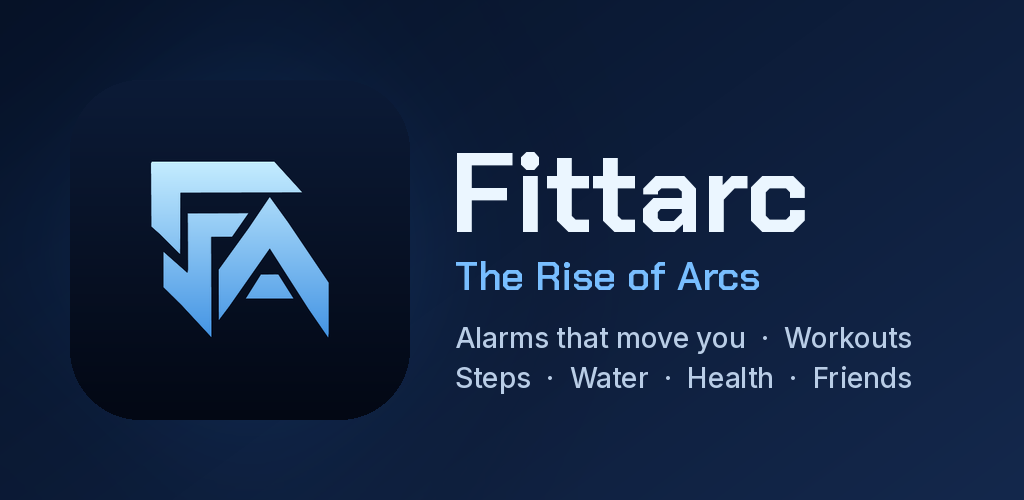
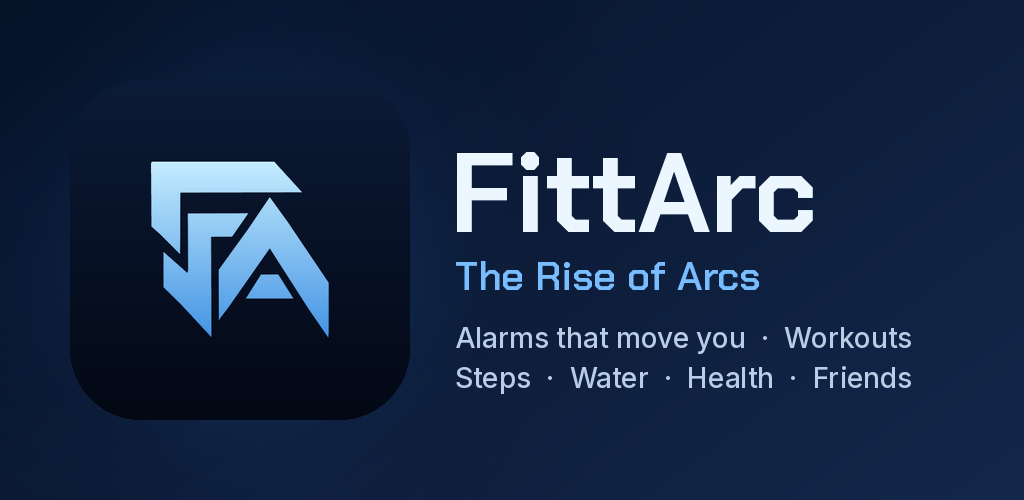
Name is written FittArc everywhere
Claude-Session: https://claude.ai/code/session_01TvF5P651VgJYdNxTh8xrqw

Changed region(s): [[0.625, 0.3, 0.8125, 0.48]]

diff --git a/lib/features/profile/privacy_policy.dart b/lib/features/profile/privacy_policy.dart
@@ -5,7 +5,7 @@ const privacyUpdated = 'October 2026';
 const privacySections = <(String, String)>[
   (
     'Summary',
-    'Fittarc keeps your fitness data on your phone and backs your progress up to your account, so you never lose '
+    'FittArc keeps your fitness data on your phone and backs your progress up to your account, so you never lose '
         'your levels and badges. Three things leave your device: what\'s needed to sign you in, that progress '
         'backup, and, if you use Friends, a small public profile and your challenges. We don\'t sell data, show ads '
         'or use third-party analytics.',
@@ -45,14 +45,14 @@ const privacySections = <(String, String)>[
   (
     'Health readings',
     'The Health tab keeps the readings you type in, such as blood pressure or blood sugar, and sorts them by '
-        'standard medical ranges. Fittarc does not measure them and does not diagnose anything. They stay on your '
+        'standard medical ranges. FittArc does not measure them and does not diagnose anything. They stay on your '
         'phone, are never uploaded, and are removed when you delete your account or reset data. If you choose '
         '"Share a summary with my doctor", the text goes only to the app you pick.',
   ),
   (
     'Feedback emails',
     'If you write to us from the app, your email app sends the message to support@fittarc.in. We read it to '
-        'improve Fittarc and to reply to you; we don\'t share it.',
+        'improve FittArc and to reply to you; we don\'t share it.',
   ),
   (
     'Camera during workouts',
@@ -62,10 +62,10 @@ const privacySections = <(String, String)>[
   ),
   (
     'Watches and Health Connect',
-    'If you choose to connect a watch, Fittarc can read its live heart rate over Bluetooth. It only looks for '
-        'devices that share heart rate, and it does not use Bluetooth to find your location. If you allow it, Fittarc '
+    'If you choose to connect a watch, FittArc can read its live heart rate over Bluetooth. It only looks for '
+        'devices that share heart rate, and it does not use Bluetooth to find your location. If you allow it, FittArc '
         'can also read your steps, heart rate and sleep from Android Health Connect, which your watch app fills in. '
-        'Fittarc only reads, never writes, and never shares or uploads this data. It is shown on your phone, '
+        'FittArc only reads, never writes, and never shares or uploads this data. It is shown on your phone, '
         'and the Arc minutes you earn are kept on your phone only. You can switch this off at any time in Health '
         'Connect or your phone settings.',
   ),
@@ -89,10 +89,10 @@ const privacySections = <(String, String)>[
   (
     'Deleting your data',
     'Use "Delete account" in your profile (tap your picture on Today) to permanently delete your sign-in, your '
-        'progress backup, your Friends profile, friend list and challenges, and all Fittarc data on the phone. You can also email us '
+        'progress backup, your Friends profile, friend list and challenges, and all FittArc data on the phone. You can also email us '
         'to have your account deleted.',
   ),
-  ('Children', 'Fittarc is not directed at children under 13.'),
+  ('Children', 'FittArc is not directed at children under 13.'),
   (
     'Contact',
     'Questions or requests: support@fittarc.in. We\'ll update this page if anything changes and show the new '

diff --git a/lib/features/profile/terms.dart b/lib/features/profile/terms.dart
@@ -3,13 +3,13 @@ const termsUpdated = 'October 2026';
 
 const termsSections = <(String, String)>[
   (
-    'Using Fittarc',
-    'By creating an account or using Fittarc you agree to these terms and to our Privacy Policy. If you don\'t '
+    'Using FittArc',
+    'By creating an account or using FittArc you agree to these terms and to our Privacy Policy. If you don\'t '
         'agree, please don\'t use the app. You must be at least 13 years old.',
   ),
   (
     'Your health and safety',
-    'Fittarc is a fitness and habit app. It is not medical advice and does not replace a doctor, dietitian or '
+    'FittArc is a fitness and habit app. It is not medical advice and does not replace a doctor, dietitian or '
         'physiotherapist. Talk to a doctor before starting a new exercise or diet plan, especially if you have a '
         'health condition, are pregnant, or are recovering from an injury. Exercise at your own risk and at your '
         'own pace: stop if you feel pain, dizziness or breathlessness. Never use the phone while driving, and '
@@ -26,7 +26,7 @@ const termsSections = <(String, String)>[
   (
     'Alarms and strict mode',
     'Alarms depend on your phone\'s settings, battery saver and permissions, and on the phone being on. Don\'t '
-        'rely on Fittarc as your only alarm for anything important (a flight, medication, an exam). Strict mode is '
+        'rely on FittArc as your only alarm for anything important (a flight, medication, an exam). Strict mode is '
         'your own choice and can be turned off in the app.',
   ),
   (
@@ -42,7 +42,7 @@ const termsSections = <(String, String)>[
   ),
   (
     'Changes and availability',
-    'We keep improving Fittarc and may change or remove features, or these terms. We\'ll update the date above '
+    'We keep improving FittArc and may change or remove features, or these terms. We\'ll update the date above '
         'when that happens. The app is provided "as is", without guarantees, and we are not liable for losses '
         'that result from using it, to the extent the law allows.',
   ),

diff --git a/lib/features/health/health_screen.dart b/lib/features/health/health_screen.dart
@@ -180,7 +180,7 @@ class _HonestNote extends StatelessWidget {
             child: Text(
               'Heart rate can be estimated with your camera, and it is approximate. A phone cannot measure blood '
               'pressure, sugar or oxygen accurately, so for those, type in what your own monitor, glucometer or '
-              'oximeter shows and Fittarc sorts it by medical guidelines. This is not medical advice.',
+              'oximeter shows and FittArc sorts it by medical guidelines. This is not medical advice.',
               style: Theme.of(context).textTheme.bodySmall,
             ),
           ),
@@ -757,7 +757,7 @@ class _MeasureWellSheet extends StatelessWidget {
           ],
           const SizedBox(height: 10),
           Text(
-            'Fittarc sorts readings by AHA/ACC blood pressure ranges and ADA blood sugar ranges. A single high '
+            'FittArc sorts readings by AHA/ACC blood pressure ranges and ADA blood sugar ranges. A single high '
             'reading is not a diagnosis. See a doctor if you are worried, and call emergency services (112 in '
             'India) for chest pain, trouble breathing or sudden weakness.',
             style: text.bodySmall,

diff --git a/android/app/src/main/kotlin/com/GetYr_io/FittArc/MainActivity.kt b/android/app/src/main/kotlin/com/GetYr_io/FittArc/MainActivity.kt
@@ -230,7 +230,7 @@ class MainActivity : FlutterFragmentActivity() {
         if (overlay != null || !Settings.canDrawOverlays(context)) return
         val wm = context.getSystemService(WindowManager::class.java) ?: return
         val dp = context.resources.displayMetrics.density
-        // Fittarc's own night-blue look (the same navy as the app icon), so
+        // FittArc's own night-blue look (the same navy as the app icon), so
         // the panel never looks like a different app.
         val panel = LinearLayout(context).apply {
             orientation = LinearLayout.VERTICAL
@@ -268,7 +268,7 @@ class MainActivity : FlutterFragmentActivity() {
                 setPadding(0, (10 * dp).toInt(), 0, (28 * dp).toInt())
             })
             addView(TextView(context).apply {
-                text = if (sleepLock) "Back to Fittarc" else "Back to alarm"
+                text = if (sleepLock) "Back to FittArc" else "Back to alarm"
                 textSize = 16f
                 typeface = Typeface.DEFAULT_BOLD
                 setTextColor(Color.parseColor("#06142B"))

diff --git a/lib/features/health/watch_screen.dart b/lib/features/health/watch_screen.dart
@@ -188,13 +188,13 @@ class _HealthConnectCard extends ConsumerWidget {
                 children: [
                   Text(
                     'Most watch apps (Fitbit, Samsung Health, Mi Fitness, Zepp, Noise, boAt, Garmin and others) can '
-                    'share with Health Connect. Turn that on in your watch app, then allow Fittarc to read steps, '
-                    'heart rate and sleep. Fittarc only reads, and keeps it on this phone.',
+                    'share with Health Connect. Turn that on in your watch app, then allow FittArc to read steps, '
+                    'heart rate and sleep. FittArc only reads, and keeps it on this phone.',
                     style: text.bodyMedium,
                   ),
                   const SizedBox(height: 12),
                   GradientButton(
-                    label: 'Allow Fittarc to read',
+                    label: 'Allow FittArc to read',
                     icon: Icons.lock_open_rounded,
                     onPressed: () => _allow(ref),
                   ),

diff --git a/lib/features/alarm/widgets/alarm_editor_sheet.dart b/lib/features/alarm/widgets/alarm_editor_sheet.dart
@@ -112,10 +112,10 @@ class _AlarmEditorSheetState extends ConsumerState<AlarmEditorSheet> {
         title: const Text('One more permission'),
         content: Text(
           _a.isSleep
-              ? 'To keep other apps blocked while you sleep, Fittarc needs "Display over other apps". '
-                    'On the next screen, find Fittarc and turn it on.'
-              : 'To bring the alarm back when someone leaves it, Fittarc needs "Display over other apps". '
-                    'On the next screen, find Fittarc and turn it on.',
+              ? 'To keep other apps blocked while you sleep, FittArc needs "Display over other apps". '
+                    'On the next screen, find FittArc and turn it on.'
+              : 'To bring the alarm back when someone leaves it, FittArc needs "Display over other apps". '
+                    'On the next screen, find FittArc and turn it on.',
         ),
         actions: [
           TextButton(onPressed: () => Navigator.pop(c, false), child: const Text('Later')),

diff --git a/lib/features/health/domain/report.dart b/lib/features/health/domain/report.dart
@@ -8,7 +8,7 @@ String buildReport(List<HealthReading> all, DateTime now) {
   final date = DateFormat('d MMM y');
   final stamp = DateFormat('d MMM, h:mm a');
   final b = StringBuffer()
-    ..writeln('Fittarc health record')
+    ..writeln('FittArc health record')
     ..writeln('Prepared on ${date.format(now)}')
     ..writeln();
 
@@ -43,7 +43,7 @@ String buildReport(List<HealthReading> all, DateTime now) {
   }
 
   b.writeln(
-    'These numbers were typed in or imported by the user from their own devices. Fittarc does not measure them '
+    'These numbers were typed in or imported by the user from their own devices. FittArc does not measure them '
     'and this is not a diagnosis.',
   );
   return b.toString().trimRight();

diff --git a/lib/features/alarm/sleep_screens.dart b/lib/features/alarm/sleep_screens.dart
@@ -143,8 +143,8 @@ class _SleepRingState extends ConsumerState<SleepRing> {
       builder: (c) => AlertDialog(
         title: const Text('One more permission'),
         content: const Text(
-          'To keep other apps blocked while you sleep, Fittarc needs "Display over other apps". '
-          'On the next screen, find Fittarc and turn it on.',
+          'To keep other apps blocked while you sleep, FittArc needs "Display over other apps". '
+          'On the next screen, find FittArc and turn it on.',
         ),
         actions: [
           TextButton(onPressed: () => Navigator.pop(c, false), child: const Text('Skip')),

diff --git a/lib/features/health/watch_data.dart b/lib/features/health/watch_data.dart
@@ -10,7 +10,7 @@ enum WatchStatus {
   /// It can be installed or updated from the store.
   needsInstall,
 
-  /// Fittarc has not been allowed to read yet.
+  /// FittArc has not been allowed to read yet.
   notAllowed,
   ready,
 }
@@ -28,7 +28,7 @@ class WatchSnapshot {
   bool get isEmpty => steps == null && latestBpm == null && restingBpm == null && sleepMinutes == null;
 }
 
-/// Reading from Health Connect. Read-only: Fittarc never writes to it.
+/// Reading from Health Connect. Read-only: FittArc never writes to it.
 abstract class WatchData {
   Future<WatchStatus> status();
 

diff --git a/lib/core/widgets/app_logo.dart b/lib/core/widgets/app_logo.dart
@@ -6,7 +6,7 @@ import 'package:flutter_riverpod/flutter_riverpod.dart';
 import '../../features/arcs/arc_providers.dart';
 import '../../features/arcs/domain/arc.dart';
 
-/// The Fittarc logo in the look of the current season: ice and snow in
+/// The FittArc logo in the look of the current season: ice and snow in
 /// Winter, cherry blossom in Rise of Revolution, a sun in Summer, rain and storm in
 /// Thunder Arc (artwork in `assets/logos`). The plain lime-on-black version is the
 /// launcher and Play Store icon; this is what the app shows when it opens.

diff --git a/web/index.html b/web/index.html
@@ -23,13 +23,13 @@
   <!-- iOS meta tags & icons -->
   <meta name="mobile-web-app-capable" content="yes">
   <meta name="apple-mobile-web-app-status-bar-style" content="black">
-  <meta name="apple-mobile-web-app-title" content="Fittarc">
+  <meta name="apple-mobile-web-app-title" content="FittArc">
   <link rel="apple-touch-icon" href="icons/Icon-192.png">
 
   <!-- Favicon -->
   <link rel="icon" type="image/png" href="favicon.png"/>
 
-  <title>Fittarc</title>
+  <title>FittArc</title>
   <link rel="manifest" href="manifest.json">
 </head>
 <body>

diff --git a/lib/features/profile/profile_screen.dart b/lib/features/profile/profile_screen.dart
@@ -231,7 +231,7 @@ class ProfileScreen extends ConsumerWidget {
                           context,
                           title: 'Delete your account?',
                           body:
-                              'This permanently deletes your sign-in and clears all Fittarc data on this device. '
+                              'This permanently deletes your sign-in and clears all FittArc data on this device. '
                               'It can\'t be undone.',
                           action: 'Delete',
                         )) {
